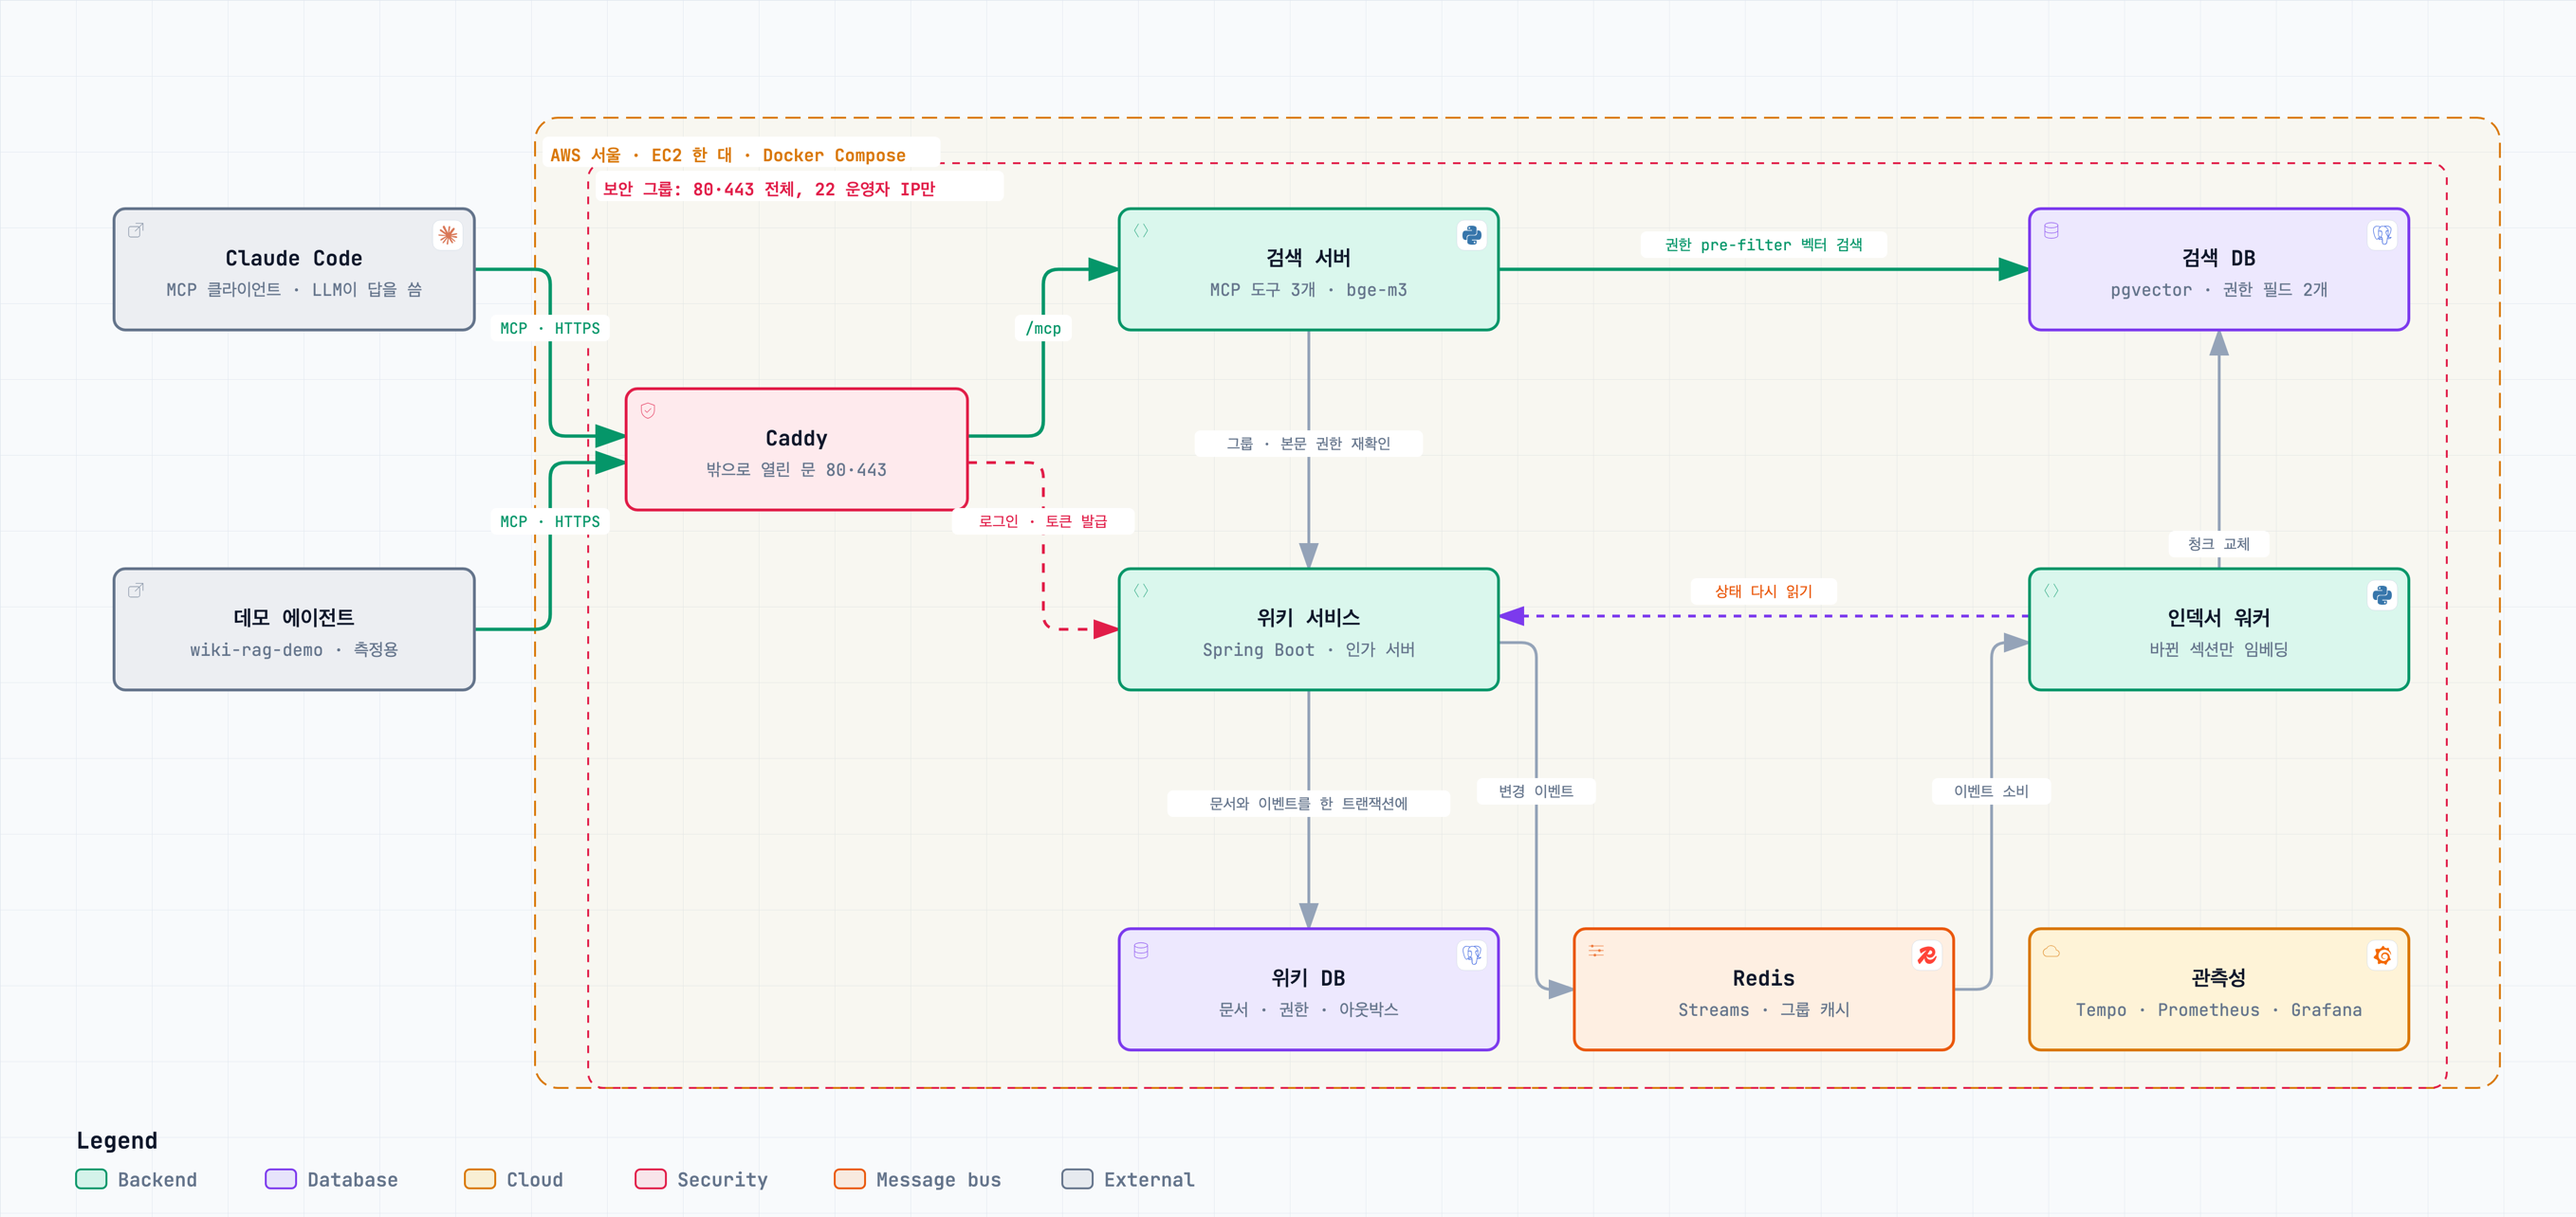
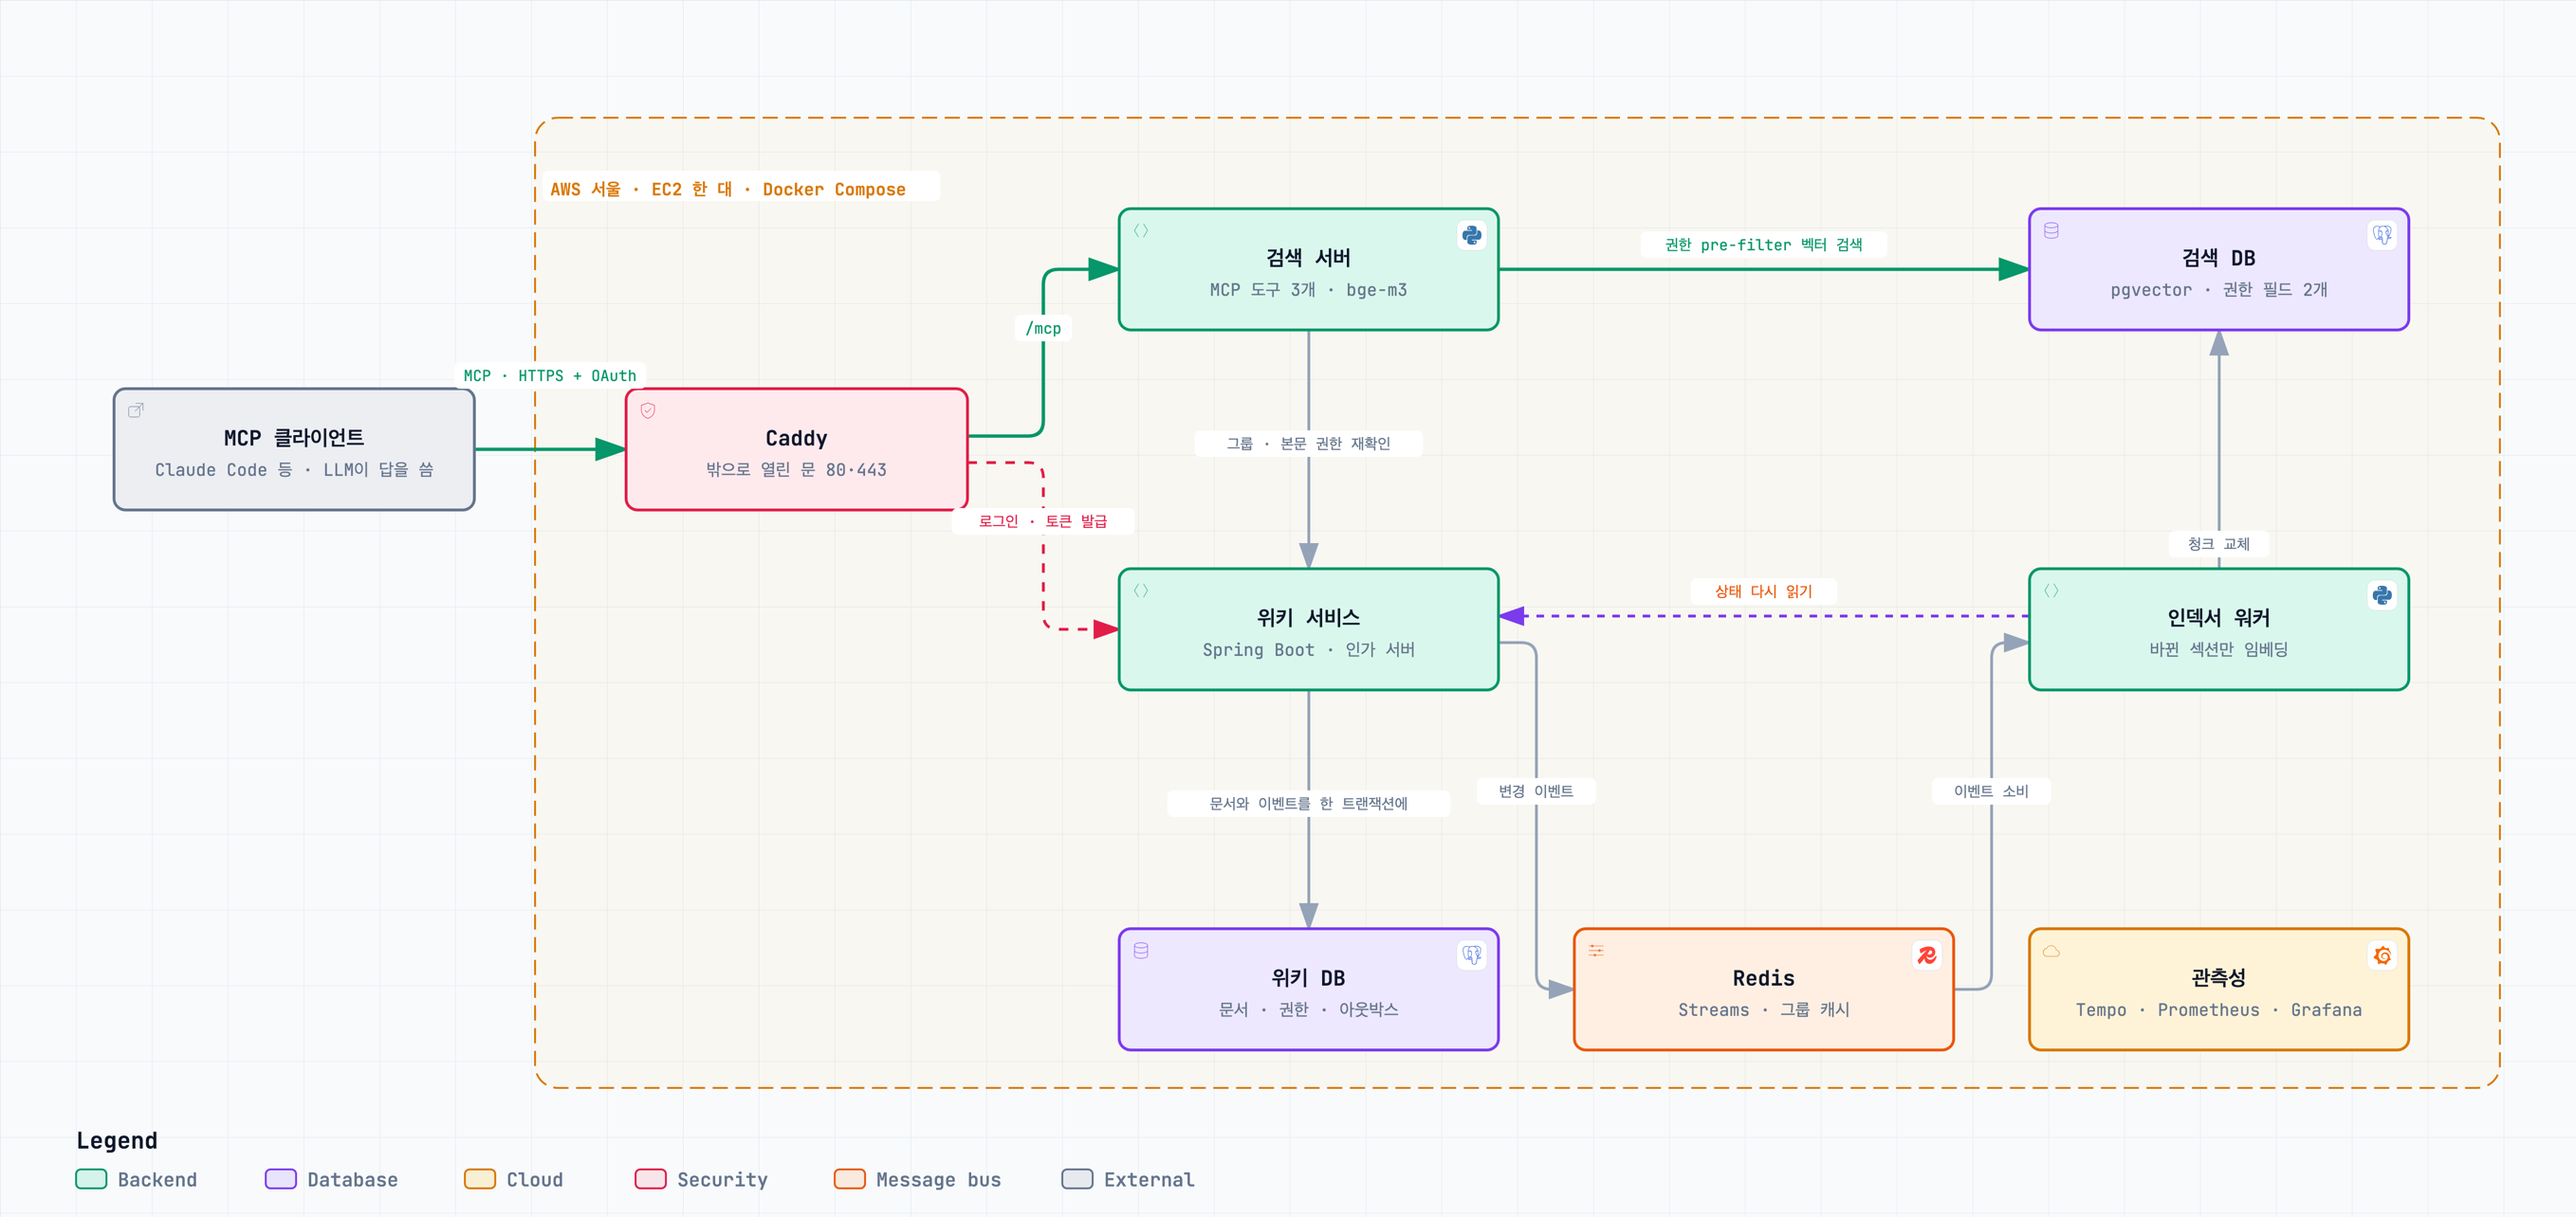
docs(readme): 구성도의 클라이언트를 하나로 합치고 네트워크는 B3-1 그림으로 나눔
데모 에이전트는 측정용 클라이언트라 서버 구성도에 Claude Code와
나란히 두면 제품의 구성 요소처럼 읽혔다. "MCP 클라이언트(Claude Code
등)" 하나로 합쳤다. 보안 그룹 경계는 B3-1 아키텍처 그림과 겹쳐 빼고,
구성도는 서버 안의 구성과 흐름만, 네트워크 경로는 B3-1 그림으로
안내한다.

diff --git a/README.md b/README.md
@@ -60,9 +60,9 @@
 
 ## 구성
 
-[![wiki-rag-mcp 구성도. Claude Code와 데모 에이전트가 Caddy(80·443)를 거쳐 검색 서버에 MCP로 요청한다. 검색 서버는 권한 조건을 건 벡터 검색으로 검색 DB를 찾고, 위키 서비스에서 그룹과 본문 권한을 확인한다. 위키 서비스는 문서와 변경 이벤트를 위키 DB에 한 트랜잭션으로 쓰고 Redis Streams로 보낸다. 인덱서 워커는 이벤트를 받아 위키에서 상태를 다시 읽고 검색 DB의 청크를 바꾼다. 관측성 도구까지 모두 EC2 한 대의 Docker Compose 안에서 돈다.](docs/system-architecture.png)](docs/system-architecture.png)
+[![wiki-rag-mcp 구성도. MCP 클라이언트(Claude Code 등)가 Caddy(80·443)를 거쳐 검색 서버에 MCP로 요청한다. 검색 서버는 권한 조건을 건 벡터 검색으로 검색 DB를 찾고, 위키 서비스에서 그룹과 본문 권한을 확인한다. 위키 서비스는 문서와 변경 이벤트를 위키 DB에 한 트랜잭션으로 쓰고 Redis Streams로 보낸다. 인덱서 워커는 이벤트를 받아 위키에서 상태를 다시 읽고 검색 DB의 청크를 바꾼다. 관측성 도구까지 모두 EC2 한 대의 Docker Compose 안에서 돈다.](docs/system-architecture.png)](docs/system-architecture.png)
 
-굵은 초록 선은 검색 경로, 회색 선은 반영 경로, 빨간 점선은 로그인, 보라 점선은 워커가 위키에서 상태를 다시 읽는 길입니다. 그림의 원본은 [`docs/system-architecture.archify.json`](docs/system-architecture.archify.json)입니다.
+굵은 초록 선은 검색 경로, 회색 선은 반영 경로, 빨간 점선은 로그인, 보라 점선은 워커가 위키에서 상태를 다시 읽는 길입니다. 그림의 원본은 [`docs/system-architecture.archify.json`](docs/system-architecture.archify.json)입니다. 이 그림은 서버 안의 구성 요소와 흐름을 보여 주고, 요청이 인터넷에서 서버까지 들어오는 네트워크 경로(DNS, 인터넷 게이트웨이, 보안 그룹)는 아래 B3-1 절의 [아키텍처 그림](#아키텍처)에 있습니다.
 
 - **검색**
   - 검색 서버는 액세스 토큰의 `sub`로 사용자를 정합니다.
